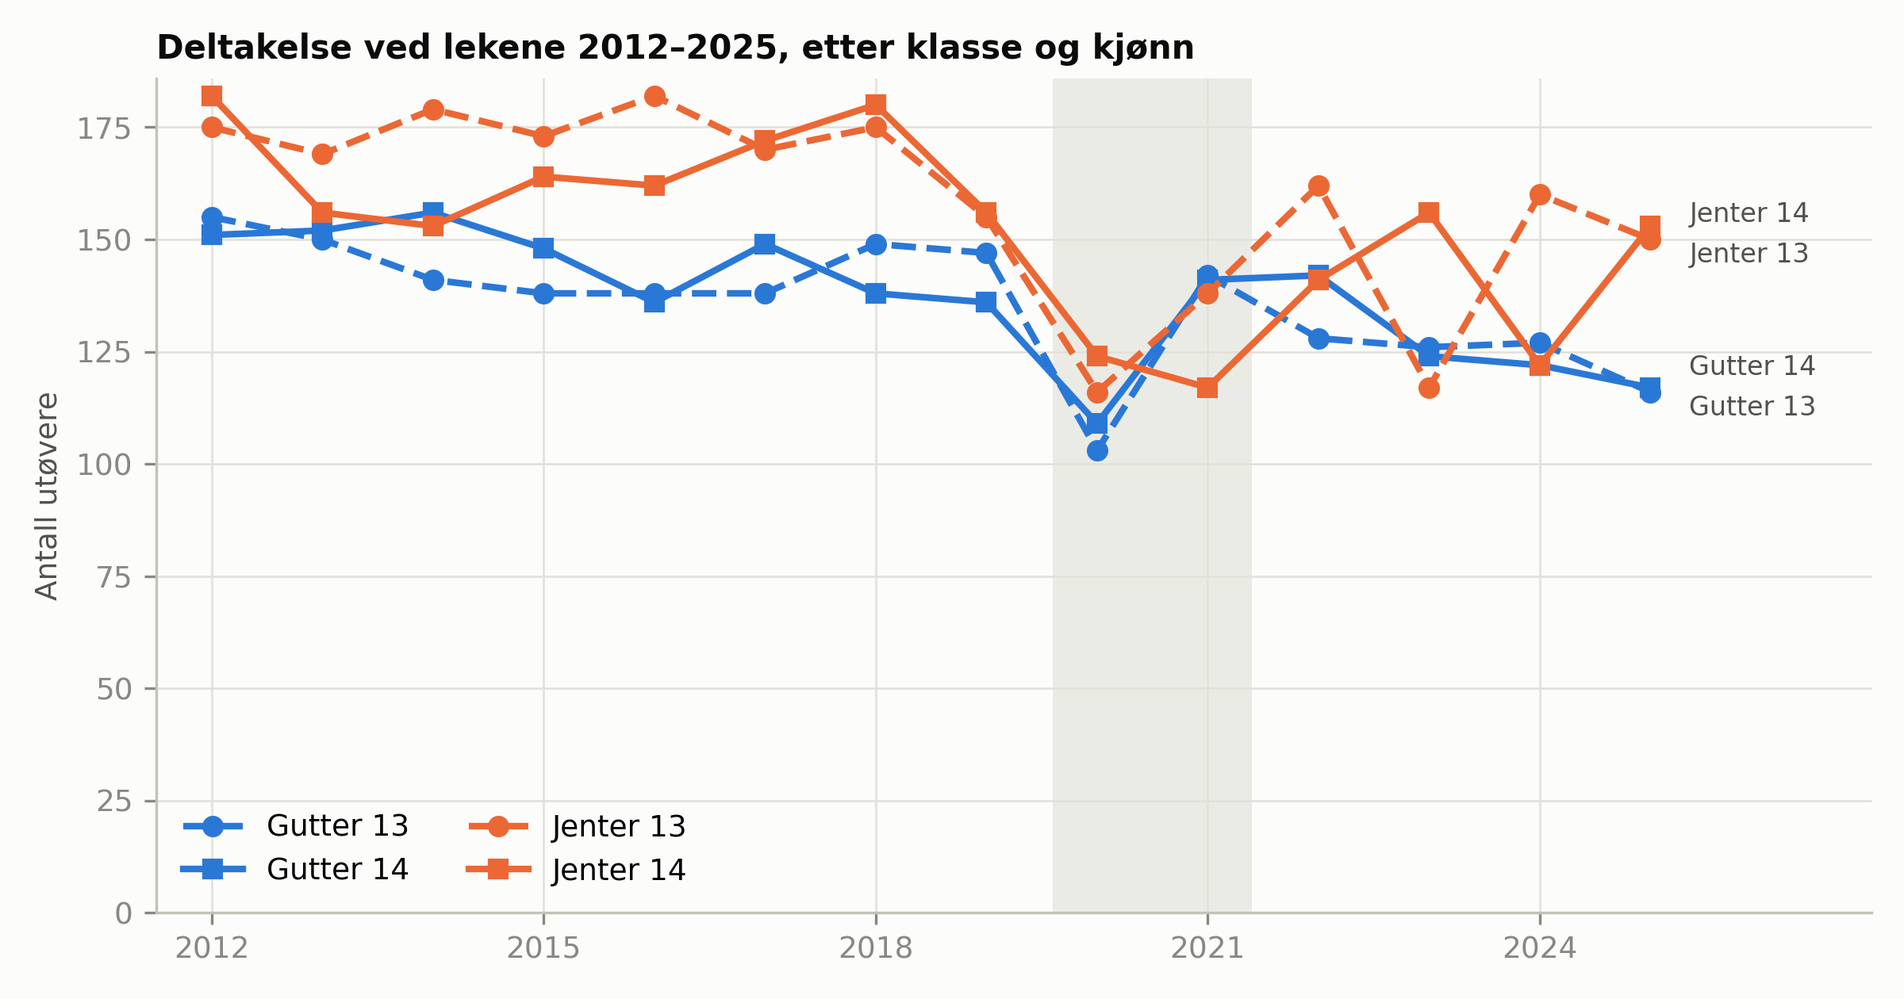
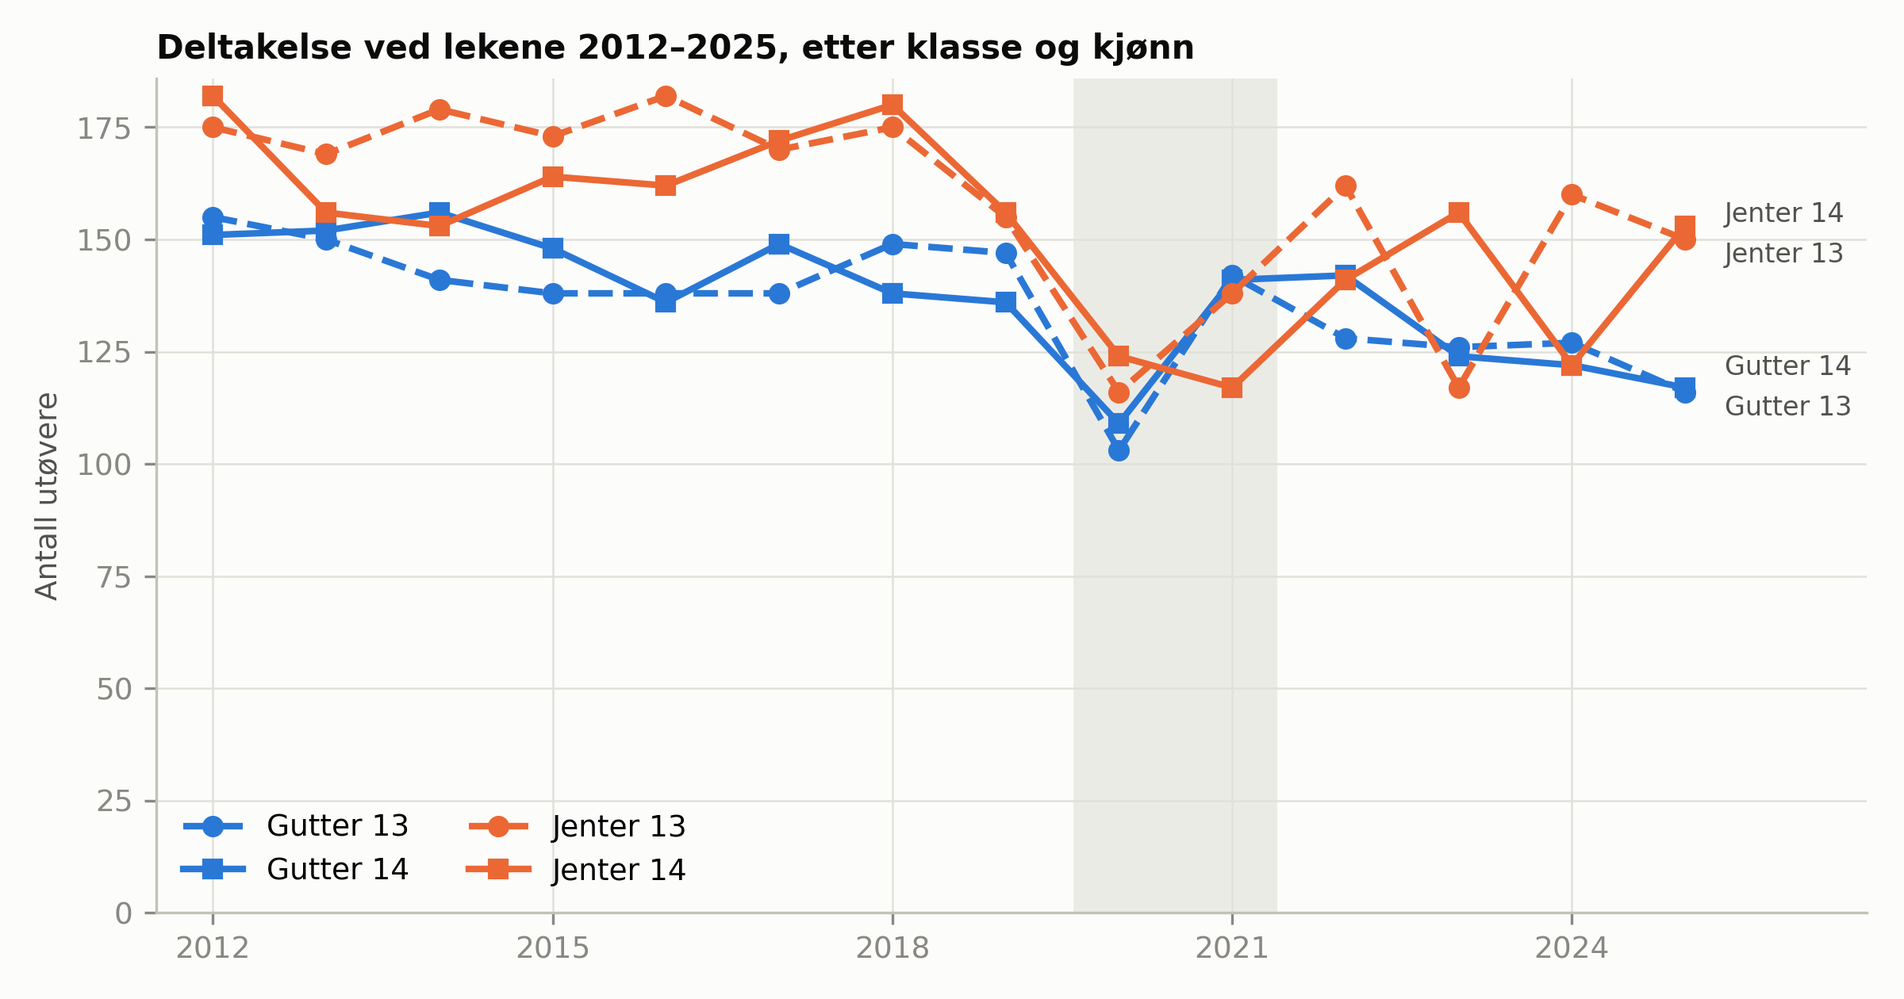
lekene-trend: make pipeline year-agnostic ahead of the 2026 edition
- year range derived from data; meet filter picks up Extra-lekene (Aug/Sep, >= 2026)
  while excluding the June Ålgård KM meet; data file renamed to data/lekene.csv
- level table and windows generated in 03_trender.py; appendix reads them
- kjor_alt.sh runs 01-04; nasjonal_kontroll.sql saved; 00_PLAN.md §10 = Monday checklist

diff --git a/forskning/lekene-trend/02_deskriptiv.py b/forskning/lekene-trend/02_deskriptiv.py
@@ -1,7 +1,7 @@
 """
-02_deskriptiv.py - Deskriptive figurer for 13-14-årslekene 2012-2025.
+02_deskriptiv.py - Deskriptive figurer for 13-14-årslekene fra 2012 og fram til siste utgave.
 
-Inn: data/lekene_2012_2025.csv (fra 01_uttrekk.py; `verdi` = sekunder/meter, tolket i felles.py)
+Inn: data/lekene.csv (fra 01_uttrekk.py; `verdi` = sekunder/meter, tolket i felles.py)
 Ut:  figures/fig1_deltakelse.png ... fig8_stav.png, tables/*.csv
 
 Kappgang er utelatt (lite interessant for artikkelen). Stav har små felt (8-23 per
@@ -22,6 +22,8 @@ import matplotlib.pyplot as plt
 import numpy as np
 import pandas as pd
 
+from felles import DATAFIL, START_AAR
+
 logging.basicConfig(level=logging.INFO, format="%(asctime)s - %(levelname)s - %(message)s")
 logger = logging.getLogger(__name__)
 
@@ -35,7 +37,7 @@ COL = {"G": "#2a78d6", "J": "#eb6834"}
 STYLE = {13: dict(ls="--", marker="o"), 14: dict(ls="-", marker="s")}
 GROUPS = ["G13", "G14", "J13", "J14"]
 LABEL = {"G13": "Gutter 13", "G14": "Gutter 14", "J13": "Jenter 13", "J14": "Jenter 14"}
-YEARS = list(range(2012, 2026))
+YEARS = list(range(START_AAR, 2026))   # utvides til siste år i dataene av load()
 MIN_N = 10        # minste felt for median
 MIN_N_TOPP = 20   # minste felt for 90. persentil (ellers = én-to utøvere)
 MIN_N_STAV = 8    # stavfeltene er 8-23; egne regler i fig 3, 5 og 8
@@ -70,8 +72,13 @@ SPEC = {"kule_3kg": "3 kg", "kule_4kg": "4 kg", "kule_2kg": "2 kg", "spyd_400g":
         "80mh_84cm": "84 cm", "200mh_68cm": "68 cm", "200mh_76_2cm": "76,2 cm"}
 
 
+def periode():
+    return f"{YEARS[0]}–{YEARS[-1]}"
+
+
 def load():
-    d = pd.read_csv(HERE / "data" / "lekene_2012_2025.csv", low_memory=False, parse_dates=["dato"])
+    d = pd.read_csv(HERE / "data" / DATAFIL, low_memory=False, parse_dates=["dato"])
+    YEARS[:] = list(range(START_AAR, int(d["yr"].max()) + 1))
     n0 = len(d)
     d = d[~d["manuell"].fillna(False).astype(bool)].copy()
     d = d[d["verdi"].notna() & (d["verdi"] > 0)]
@@ -88,8 +95,8 @@ def covid_band(ax):
 
 
 def style_year_axis(ax):
-    ax.set_xticks([2012, 2015, 2018, 2021, 2024])
-    ax.set_xlim(2011.5, 2025.5)
+    ax.set_xticks([y for y in YEARS if (y - YEARS[0]) % 3 == 0])
+    ax.set_xlim(YEARS[0] - 0.5, YEARS[-1] + 0.5)
 
 
 def header(fig, title, subtitle=None):
@@ -169,10 +176,10 @@ def fig_deltakelse(d):
         ax.plot(part.index, part[g], color=COL[g[0]], label=LABEL[g], **STYLE[int(g[1:])])
     pos = spread({g: part[g].iloc[-1] for g in GROUPS}, gap=9)
     for g in GROUPS:
-        ax.text(2025.35, pos[g], LABEL[g], color=INK2, va="center", fontsize=8)
-    covid_band(ax); style_year_axis(ax); ax.set_xlim(2011.5, 2027)
+        ax.text(YEARS[-1] + 0.35, pos[g], LABEL[g], color=INK2, va="center", fontsize=8)
+    covid_band(ax); style_year_axis(ax); ax.set_xlim(YEARS[0] - 0.5, YEARS[-1] + 1.6)
     ax.set_ylabel("Antall utøvere"); ax.set_ylim(0, None)
-    ax.set_title("Deltakelse ved lekene 2012–2025, etter klasse og kjønn", loc="left", color=INK, fontweight="bold")
+    ax.set_title(f"Deltakelse ved lekene {periode()}, etter klasse og kjønn", loc="left", color=INK, fontweight="bold")
     ax.legend(loc="lower left", ncol=2)
     fig.tight_layout(); fig.savefig(FIG / "fig1_deltakelse.png", dpi=300); plt.close(fig)
     logger.info("lagret fig1_deltakelse.png")
@@ -241,7 +248,7 @@ def fig_gjentakere(d):
             ax.plot(YEARS[1:], s.median_forb, color=COL[sex], marker="o",
                     label="Gutter" if sex == "G" else "Jenter")
         ax.axhline(0, color=AXIS, lw=1)
-        covid_band(ax); style_year_axis(ax); ax.set_xlim(2012.5, 2025.5)
+        covid_band(ax); style_year_axis(ax); ax.set_xlim(YEARS[1] - 0.5, YEARS[-1] + 0.5)
         ax.set_title(name if code != "stav" else f"{name} (glidende 3-årsvindu)",
                      loc="left", color=INK, fontweight="bold")
         ax.set_ylabel("% forbedring 13→14")
@@ -278,7 +285,7 @@ def fig_sammensetning(d):
         covid_band(ax); style_year_axis(ax)
     handles, labels = axes[0].get_legend_handles_labels()
     fig.legend(handles, labels, loc="lower center", ncol=5, bbox_to_anchor=(0.5, -0.01))
-    top = header(fig, "Sammensetningen av feltet, 2012–2025")
+    top = header(fig, f"Sammensetningen av feltet, {periode()}")
     fig.tight_layout(rect=(0, 0.06, 1, top))
     fig.savefig(FIG / "fig6_sammensetning.png", dpi=300); plt.close(fig)
     logger.info("lagret fig6_sammensetning.png")

diff --git a/forskning/lekene-trend/01_uttrekk.py b/forskning/lekene-trend/01_uttrekk.py
@@ -1,9 +1,12 @@
 """
-01_uttrekk.py - Henter alle resultater for 13-14-årslekene 2012-2025 fra Supabase
-og lagrer et deduplisert analysedatasett (ett resultat per utøver x øvelse x år).
+01_uttrekk.py - Henter alle resultater for 13-14-årslekene fra 2012 og fram til i dag
+fra Supabase og lagrer et deduplisert analysedatasett (ett resultat per utøver x
+øvelse x år). Serien: NCC (2012), PEAB (2013-14), Bendit (2015), Ungdomslekene (2016),
+Lerøy (2017-2025), Extra-lekene (2026-). Extralekene på Ålgård i juni (KM Rogaland)
+er et annet stevne og holdes utenfor via måned.
 
 Kjør:  scraper/venv/bin/python forskning/lekene-trend/01_uttrekk.py
-Ut:    forskning/lekene-trend/data/lekene_2012_2025.csv
+Ut:    forskning/lekene-trend/data/lekene.csv
 """
 
 import logging
@@ -17,7 +20,7 @@ from supabase import create_client
 
 HERE = Path(__file__).parent
 import sys; sys.path.insert(0, str(HERE))
-from felles import manuell_presisjon, parse_verdi
+from felles import DATAFIL, START_AAR, manuell_presisjon, parse_verdi
 ROOT = HERE.parent.parent
 DATA = HERE / "data"
 DATA.mkdir(exist_ok=True)
@@ -32,28 +35,32 @@ sb = create_client(os.environ["SUPABASE_URL"], os.environ["SUPABASE_SERVICE_KEY"
 
 
 def serie_meets() -> pd.DataFrame:
-    """Alle stevnerader i serien (NCC/PEAB/Bendit/Ungdomslekene/Lerøy), 2012-2025."""
-    rows = []
+    """Alle stevnerader i serien (NCC/PEAB/Bendit/Ungdomslekene/Lerøy/Extra), 2012 til i dag."""
     q = (sb.table("meets").select("id,name,city,start_date")
-         .gte("start_date", "2012-01-01").lte("start_date", "2025-12-31")
+         .gte("start_date", f"{START_AAR}-01-01").lte("start_date", datetime.now().strftime("%Y-%m-%d"))
          .or_("name.ilike.%ncc%lek%,name.ilike.%peab%lek%,name.ilike.%bendit%lek%,"
-              "name.ilike.%lerøy%,name.ilike.%leroy%,name.ilike.%ungdomslekene%"))
-    rows = q.execute().data
-    m = pd.DataFrame(rows)
+              "name.ilike.%lerøy%,name.ilike.%leroy%,name.ilike.%ungdomslekene%,name.ilike.%extra%lek%"))
+    m = pd.DataFrame(q.execute().data)
     m["start_date"] = pd.to_datetime(m["start_date"])
     m["yr"] = m["start_date"].dt.year
     name = m["name"].str.lower()
     keep = (
         ~name.str.contains("naperville|nattstevne|stavstevne|kvalifisering|oppkjøring|samling", regex=True)
         & (
-            name.str.contains(r"(ncc|peab|bendit)[- ]?lek", regex=True)
+            name.str.contains(r"(?:ncc|peab|bendit)[- ]?lek", regex=True)
             | name.str.contains("lerøy|leroy", regex=True)
             | (name.str.contains("ungdomslekene")
                & m["start_date"].between("2016-08-26", "2016-08-29"))
+            # Extra-lekene fra 2026 (august/september); Extralekene på Ålgård i juni er KM Rogaland
+            | (name.str.contains(r"extra[- ]?lek", regex=True)
+               & (m["yr"] >= 2026) & m["start_date"].dt.month.isin([8, 9]))
         )
     )
     m = m[keep].copy()
-    logger.info(f"Serie: {len(m)} stevnerader, år {sorted(m['yr'].unique())}")
+    logger.info(f"Serie: {len(m)} stevnerader, år {sorted(m['yr'].unique().tolist())}")
+    for yr, g in m.groupby("yr"):
+        logger.info(f"  {yr}: " + "; ".join(f"{n} ({c}, {d:%d.%m})" for n, c, d in
+                                            zip(g["name"], g["city"], g["start_date"])))
     return m
 
 
@@ -135,7 +142,7 @@ def main():
                                 "e_result_type": "resultattype", "e_category": "kategori",
                                 "a_birth_date": "fodselsdato", "a_birth_year": "fodselsaar"})
     d = d.sort_values(["yr", "ovelse", "klasse_kjonn", "performance_value"])
-    out = DATA / "lekene_2012_2025.csv"
+    out = DATA / DATAFIL
     d.to_csv(out, index=False)
     logger.info(f"Lagret {len(d)} dedupliserte resultater, {d['athlete_id'].nunique()} utøvere -> {out}")
     logger.info("\n" + d.groupby("yr")["athlete_id"].nunique().to_string())

diff --git a/forskning/lekene-trend/03_trender.py b/forskning/lekene-trend/03_trender.py
@@ -13,6 +13,7 @@ Ut:  tables/trender_per_serie.csv, tables/trender_per_gruppe.csv, tables/trender
 """
 
 import importlib
+import json
 import logging
 import warnings
 from pathlib import Path
@@ -78,8 +79,8 @@ def trend_serie(d, name, code, rtype, g):
         row[f"{lab}_p"] = p
         # nivåsammenligning før/etter covid
         v0 = sub[sub.yr.between(2012, 2019)].verdi.quantile(q)
-        v1 = sub[sub.yr.between(2022, 2025)].verdi.quantile(q)
-        row[f"{lab}_endring_2022_25_vs_2012_19_pct"] = sign * 100 * (v1 / v0 - 1)
+        v1 = sub[sub.yr >= 2022].verdi.quantile(q)
+        row[f"{lab}_endring_etter_covid_pct"] = sign * 100 * (v1 / v0 - 1)   # 2022- mot 2012-2019
     return row
 
 
@@ -137,7 +138,7 @@ def fig_trendoversikt(t):
     hs += [Line2D([], [], color=INK2, marker="o", ls="none", ms=5.5, mfc="white", mew=1.4)]
     fig.legend(hs, [LABEL[g] for g in GROUPS] + ["åpen markør = ikke signifikant (p ≥ 0,05)"],
                loc="lower center", ncol=5, bbox_to_anchor=(0.5, -0.01))
-    top = desk.header(fig, "Trend 2012–2025 per øvelse og klasse: prosent bedre per tiår",
+    top = desk.header(fig, f"Trend {desk.periode()} per øvelse og klasse: prosent bedre per tiår",
                       "Kvantilregresjon av log(resultat) på år. Positivt = bedre (raskere, lenger, høyere). "
                       "Kast og hekk: redskap/høyde konstant innen hver klasse.")
     fig.tight_layout(rect=(0, 0.05, 0.98, top))
@@ -145,8 +146,27 @@ def fig_trendoversikt(t):
     logger.info("lagret fig9_trendoversikt.png")
 
 
+def nivaa_tabell():
+    """Nivå i originalenheter: snitt av årsmedian/p90 i de tre første og tre siste årene."""
+    k = pd.read_csv(TAB / "kvantiler_per_aar.csv")
+    aar = sorted(k.yr.unique())
+    tidlig, sent = (int(aar[0]), int(aar[2])), (int(aar[-3]), int(aar[-1]))
+
+    def snitt(col, lo, hi):
+        return k[k.yr.between(lo, hi) & k[col].notna()].groupby(["ovelse", "gruppe"])[col].mean()
+
+    tab = pd.DataFrame({"median_tidlig": snitt("median", *tidlig), "median_sent": snitt("median", *sent),
+                        "p90_tidlig": snitt("p90", *tidlig), "p90_sent": snitt("p90", *sent)}).round(3)
+    tab["median_diff"] = (tab.median_sent - tab.median_tidlig).round(3)
+    tab["p90_diff"] = (tab.p90_sent - tab.p90_tidlig).round(3)
+    tab.to_csv(TAB / "nivaa_tidlig_sent.csv")
+    (TAB / "vinduer.json").write_text(json.dumps({"tidlig": tidlig, "sent": sent}), encoding="utf-8")
+    logger.info(f"nivåtabell: {tidlig[0]}–{tidlig[1]} mot {sent[0]}–{sent[1]}")
+
+
 def main():
     d = desk.load()
+    nivaa_tabell()
     rows = [r for r in (trend_serie(d, *s) for s in serier()) if r]
     t = pd.DataFrame(rows)
     t["ovelsesgruppe"] = t.ovelse.map(gruppe_av)

diff --git a/forskning/lekene-trend/04_vedleggstabell.py b/forskning/lekene-trend/04_vedleggstabell.py
@@ -2,10 +2,11 @@
 04_vedleggstabell.py - Lager vedleggstabellen til 03_vurdering.md fra tabellene,
 slik at ingen tall i vedlegget er skrevet for hånd.
 
-Inn: tables/trender_per_serie.csv, tables/nivaa_tidlig_sent.csv
+Inn: tables/trender_per_serie.csv, tables/nivaa_tidlig_sent.csv, tables/vinduer.json
 Ut:  tables/vedlegg_trender.md
 """
 
+import json
 from pathlib import Path
 
 import pandas as pd
@@ -34,20 +35,23 @@ def niva(x):
 def main():
     t = pd.read_csv(TAB / "trender_per_serie.csv")
     niv = pd.read_csv(TAB / "nivaa_tidlig_sent.csv")
+    vin = json.loads((TAB / "vinduer.json").read_text(encoding="utf-8"))
+    (t0, t1), (s0, s1) = vin["tidlig"], vin["sent"]
     niv["ovelse_kort"] = niv["ovelse"].str.replace(r" \(.*\)", "", regex=True)
-    t = t.merge(niv[["ovelse_kort", "gruppe", "median_2012_14", "median_2023_25"]],
+    t = t.merge(niv[["ovelse_kort", "gruppe", "median_tidlig", "median_sent"]],
                 left_on=["ovelse", "gruppe"], right_on=["ovelse_kort", "gruppe"], how="left")
     t["_o"] = t["ovelse"].map(ORDER.index)
     t = t.sort_values(["_o", "gruppe"])
-    lines = ["# Vedlegg: trend per øvelse og klasse, lekene 2012–2025", "",
+    lines = [f"# Vedlegg: trend per øvelse og klasse, lekene {t0}–{s1}", "",
              "Kvantilregresjon av log(resultat) på år; prosent bedre per tiår med 95 % konfidensintervall. "
-             "Nivå = snitt av årsmedianene 2012–2014 og 2023–2025 (sekunder for løp, meter ellers). "
+             f"Nivå = snitt av årsmedianene {t0}–{t1} og {s0}–{s1} (sekunder for løp, meter ellers). "
              "Signifikans: \\* p < 0,05, \\*\\* p < 0,01, \\*\\*\\* p < 0,001.", "",
-             "| Øvelse | Klasse | n | Median, % per tiår [KI] | Topp (beste desil), % per tiår [KI] | Median 2012–14 → 2023–25 |",
+             "| Øvelse | Klasse | n | Median, % per tiår [KI] | Topp (beste desil), % per tiår [KI] "
+             f"| Median {t0}–{str(t1)[2:]} → {s0}–{str(s1)[2:]} |",
              "|---|---|---:|---|---|---|"]
     for _, r in t.iterrows():
-        nivaa = f"{niva(r['median_2012_14'])} → {niva(r['median_2023_25'])}" \
-            if pd.notna(r["median_2012_14"]) else ""
+        nivaa = f"{niva(r['median_tidlig'])} → {niva(r['median_sent'])}" \
+            if pd.notna(r["median_tidlig"]) else ""
         lines.append(
             f"| {r['ovelse']} | {LABEL[r['gruppe']]} | {int(r['n'])} "
             f"| {no(r['median_pct_tiaar'], sign=True)} [{no(r['median_ki_lo'])}; {no(r['median_ki_hi'])}]{stjerne(r['median_p'])} "

diff --git a/forskning/lekene-trend/felles.py b/forskning/lekene-trend/felles.py
@@ -10,6 +10,9 @@ import re
 
 import numpy as np
 
+START_AAR = 2012          # første utgave i datasettet; siste år utledes fra dataene
+DATAFIL = "lekene.csv"    # data/<DATAFIL>, skrevet av 01_uttrekk.py
+
 # Løp kortere enn 800 m kan være manuelt tidtatt; tideler = manuell (prosjektregel).
 SPRINT = {"60m", "200m", "60mh_68cm", "60mh_76_2cm", "80mh_84cm", "200mh_68cm", "200mh_76_2cm"}
 # Øvelser der en tid under 60 s er umulig: "M.SS" betyr minutter.sekunder.

diff --git a/forskning/lekene-trend/tables/vedlegg_trender.md b/forskning/lekene-trend/tables/vedlegg_trender.md
@@ -11,8 +11,8 @@ Kvantilregresjon av log(resultat) på år; prosent bedre per tiår med 95 % konf
 | 200 m | Gutter 13 | 609 | -0,1 [-1,7; 1,6] | +1,5 [-0,1; 3,2] | 28,73 → 28,97 |
 | 200 m | Gutter 14 | 644 | +0,1 [-1,4; 1,7] | +1,6 [0,1; 3,1]* | 27,04 → 26,81 |
 | 200 m | Jenter 13 | 755 | -1,2 [-2,4; -0,0]* | +0,0 [-1,4; 1,5] | 30,00 → 30,34 |
-| 200 m | Jenter 14 | 697 | -2,7 [-3,9; -1,4]*** | -0,7 [-2,4; 1,0] | 28,97 → 29,83 |
-| 60 m hekk | Gutter 13 | 364 | -0,2 [-3,6; 3,2] | +0,8 [-2,4; 3,9] | 10,92 → 10,92 |
+| 200 m | Jenter 14 | 697 | -2,7 [-3,9; -1,4]*** | -0,7 [-2,4; 1,0] | 28,97 → 29,84 |
+| 60 m hekk | Gutter 13 | 364 | -0,2 [-3,6; 3,2] | +0,8 [-2,4; 3,9] | 10,93 → 10,92 |
 | 60 m hekk | Jenter 13 | 391 | -0,8 [-4,9; 3,3] | -2,4 [-5,3; 0,5] | 11,24 → 11,57 |
 | 60 m hekk | Jenter 14 | 406 | -1,6 [-4,3; 1,2] | -0,8 [-3,2; 1,6] | 10,68 → 10,91 |
 | 80 m hekk | Gutter 14 | 287 | +1,8 [-1,7; 5,3] | +0,4 [-3,2; 4,0] | 13,76 → 13,74 |
@@ -23,12 +23,12 @@ Kvantilregresjon av log(resultat) på år; prosent bedre per tiår med 95 % konf
 | 600 m | Gutter 13 | 592 | +1,5 [-0,4; 3,3] | +1,5 [-0,4; 3,4] | 106,3 → 106,4 |
 | 600 m | Gutter 14 | 621 | +0,5 [-1,0; 1,9] | +2,1 [0,4; 3,8]* | 99,99 → 99,80 |
 | 600 m | Jenter 13 | 592 | -1,9 [-3,5; -0,2]* | +0,9 [-0,6; 2,4] | 112,9 → 115,6 |
-| 600 m | Jenter 14 | 517 | -0,3 [-2,0; 1,4] | -0,2 [-1,7; 1,4] | 109,5 → 111,4 |
+| 600 m | Jenter 14 | 517 | -0,3 [-2,0; 1,4] | -0,2 [-1,7; 1,4] | 109,6 → 111,4 |
 | 1500 m | Gutter 13 | 435 | -0,8 [-3,1; 1,6] | +2,1 [0,0; 4,1]* | 304,7 → 311,1 |
 | 1500 m | Gutter 14 | 475 | +0,0 [-1,8; 1,9] | +1,4 [-0,7; 3,5] | 291,9 → 289,4 |
 | 1500 m | Jenter 13 | 386 | -1,1 [-3,5; 1,4] | +2,1 [-0,0; 4,2] | 328,8 → 331,6 |
 | 1500 m | Jenter 14 | 377 | -0,5 [-2,9; 1,8] | +0,0 [-1,9; 2,0] | 324,5 → 326,4 |
-| Lengde | Gutter 13 | 570 | -1,4 [-4,7; 1,9] | +1,4 [-2,9; 5,7] | 4,34 → 4,31 |
+| Lengde | Gutter 13 | 570 | -1,4 [-4,7; 1,9] | +1,4 [-2,9; 5,7] | 4,33 → 4,31 |
 | Lengde | Gutter 14 | 594 | -1,4 [-4,9; 2,0] | +3,3 [-0,6; 7,1] | 4,75 → 4,64 |
 | Lengde | Jenter 13 | 803 | -4,3 [-6,7; -1,9]*** | -1,9 [-5,0; 1,1] | 4,14 → 3,98 |
 | Lengde | Jenter 14 | 752 | -2,7 [-5,2; -0,2]* | -0,4 [-3,3; 2,5] | 4,19 → 4,06 |
@@ -44,12 +44,12 @@ Kvantilregresjon av log(resultat) på år; prosent bedre per tiår med 95 % konf
 | Stav | Gutter 14 | 205 | +4,5 [-4,2; 13,2] | -5,1 [-16,3; 6,1] | 2,20 → 2,29 |
 | Stav | Jenter 13 | 200 | +0,0 [-9,2; 9,2] | +4,7 [-5,2; 14,6] | 1,89 → 1,88 |
 | Stav | Jenter 14 | 223 | -0,0 [-7,9; 7,9] | +8,2 [-0,3; 16,6] | 2,08 → 2,11 |
-| Kule | Gutter 13 | 501 | -8,2 [-14,3; -2,1]** | -8,6 [-14,5; -2,6]** | 8,85 → 8,17 |
-| Kule | Gutter 14 | 453 | -5,0 [-10,9; 0,9] | -16,6 [-22,0; -11,1]*** | 9,02 → 8,58 |
-| Kule | Jenter 13 | 621 | -6,7 [-11,2; -2,2]** | -1,7 [-5,9; 2,5] | 8,63 → 8,08 |
-| Kule | Jenter 14 | 536 | -5,2 [-10,4; -0,0] | -6,0 [-12,0; 0,0] | 8,03 → 7,56 |
-| Spyd | Gutter 13 | 482 | -16,4 [-24,4; -8,4]*** | -13,6 [-20,1; -7,0]*** | 30,22 → 24,64 |
-| Spyd | Gutter 14 | 441 | -16,4 [-24,7; -8,0]*** | -11,5 [-20,3; -2,7]* | 31,13 → 26,76 |
+| Kule | Gutter 13 | 501 | -8,2 [-14,3; -2,1]** | -8,6 [-14,5; -2,6]** | 8,85 → 8,18 |
+| Kule | Gutter 14 | 453 | -5,0 [-10,9; 0,9] | -16,6 [-22,0; -11,1]*** | 9,03 → 8,58 |
+| Kule | Jenter 13 | 621 | -6,7 [-11,2; -2,2]** | -1,7 [-5,9; 2,5] | 8,63 → 8,09 |
+| Kule | Jenter 14 | 536 | -5,2 [-10,4; -0,0] | -6,0 [-12,0; 0,0] | 8,04 → 7,56 |
+| Spyd | Gutter 13 | 482 | -16,4 [-24,4; -8,4]*** | -13,6 [-20,1; -7,0]*** | 30,21 → 24,64 |
+| Spyd | Gutter 14 | 441 | -16,4 [-24,7; -8,0]*** | -11,5 [-20,3; -2,7]* | 31,13 → 26,75 |
 | Spyd | Jenter 13 | 477 | -13,7 [-22,4; -5,0]** | -15,0 [-23,8; -6,1]** | 21,32 → 18,37 |
 | Spyd | Jenter 14 | 479 | -17,4 [-26,6; -8,2]*** | -13,1 [-22,2; -4,0]** | 26,08 → 20,78 |
 | Diskos | Gutter 13 | 391 | -10,7 [-19,7; -1,6]* | -14,4 [-25,5; -3,2]* | 22,59 → 20,26 |

diff --git a/forskning/lekene-trend/00_PLAN.md b/forskning/lekene-trend/00_PLAN.md
@@ -77,7 +77,7 @@ Kjerneøvelser med full dekning og størst felt: 60m, 200m, 600m, 1500m, lengde 
 
 ## 6. Neste steg (arbeidsplan)
 
-1. Uttrekk med `serie.sql` (denne mappen) → deduplisert datasett `lekene_2012_2025.csv` med eksakt alder, kjønn, klasse, øvelse, resultat, vind, arena.
+1. Uttrekk med `01_uttrekk.py` (logikken speiles i `serie.sql`) → deduplisert datasett `data/lekene.csv` med eksakt alder, kjønn, klasse, øvelse, resultat, vind, arena.
 2. Deskriptiv tabell: n per øvelse × klasse × kjønn × år; første kvantilfigur (A).
 3. Gjentaker-datasett og 13→14-forbedring (D).
 4. Tyrving-scoring (gjenbruk `data/tyrvingtabellen.py` fra ncc-kohort) → samleindeks (E).
@@ -102,6 +102,15 @@ Enkle lineære trender 2012–2025 over de sju fellesøvelsene med store felt (6
 - **Deltakerprofil:** øvelser per utøver har økt fra ca. 3,3 (2012) til ca. 4,0 (2025) i alle klasser; jenter alltid i flertall; covid-fallet i 2020 er hentet inn til rundt 2015–2019-nivå minus ca. 10 %.
 - **Stav (fig 8, egne regler pga. felt på 8–23):** median og beste fjerdedel er flate i alle fire klasser (−2 til +4 % per tiår, alle p > 0,4). Beste hopp per år svinger med enkeltutøvere: guttenes toppresultater var høyest 2014–2018, jentenes topp ligger stabilt rundt 2,8–3,1 m i J14. Gjentakerforbedringen 13→14 er stor (gutter ca. 18 %, jenter ca. 10 % i median) og *stigende* for jenter, fra 6,5 % i 2013-vinduet til 12,9 % i 2025-vinduet (p < 0,01; 3-årsvinduer). Kappgang er tatt ut av figurene etter avtale (2026-09-05).
 - **Sammensetning:** eksakt alder i klassen er stabil (avvik fra klassealder 0,23–0,27 år mot 0,18 forventet ved jevn fødselsfordeling); andel født 1. kvartal ligger på 28–35 % (relativ alderseffekt, konstant). Sammensetning forklarer altså ikke nivåtrenden — men modell C må bekrefte.
+
+## 10. Mandag 2026-09-07: oppdatering med 2026-utgaven (Extra-lekene 5.–6. september 2026)
+
+1. **Sjekk at 2026-utgaven er importert:** `SELECT name, city, start_date FROM meets WHERE start_date >= '2026-08-01' AND name ILIKE '%lek%'`. Hvis ikke: `cd scraper && source venv/bin/activate && python update_results.py --dry-run`, deretter uten `--dry-run`. Se etter «Unmapped event»-advarsler i loggen (nye øvelsesnavn må mappes i `EVENT_NAME_TO_CODE`).
+2. **Kjør pipelinen:** `bash forskning/lekene-trend/kjor_alt.sh`. Uttrekket finner 2026-stevnet via navn (extra/lek), år ≥ 2026 og måned 8–9, og loggen lister stevnene per år: kontroller at alle tre arenaene er med, og at Ålgård-KM i juni ikke er det. Årsspennet i figurer og tabeller utledes fra dataene.
+3. **Kontroller tallene:** deltakelse 2026 i `tables/deltakelse.csv` (forvent 500–600 utøvere), n per øvelse i `tables/kvantiler_per_aar.csv`, og at `tables/vinduer.json` viser sent = 2024–2026. Sjekk at tidsformatene i 2026 tolkes riktig (`felles.parse_verdi`; se §7).
+4. **Se på fig 1–9** (etikettkollisjoner ved nytt siste år). Kjør den nasjonale kontrollen på nytt (`nasjonal_kontroll.sql` mot Supabase → `tables/nasjonal_13_14_per_aar.csv`).
+5. **Oppdater `03_vurdering.md`** med 2026-tallene fra `tables/trender_per_gruppe.csv`, `trender_per_serie.csv`, `nivaa_tidlig_sent.csv` og `gjentakere_forbedring.csv`; vedlegget kommer fra `04_vedleggstabell.py`.
+6. **Skriv artikkelutkastet** (norsk, konservativt bokmål; 6–8 figurer, 2 tabeller) etter budskapene i `03_vurdering.md` §5.
 
 ## 9. Litteratur å vurdere (verifiser før bruk — ingen referanse inn uten sjekk)
 
